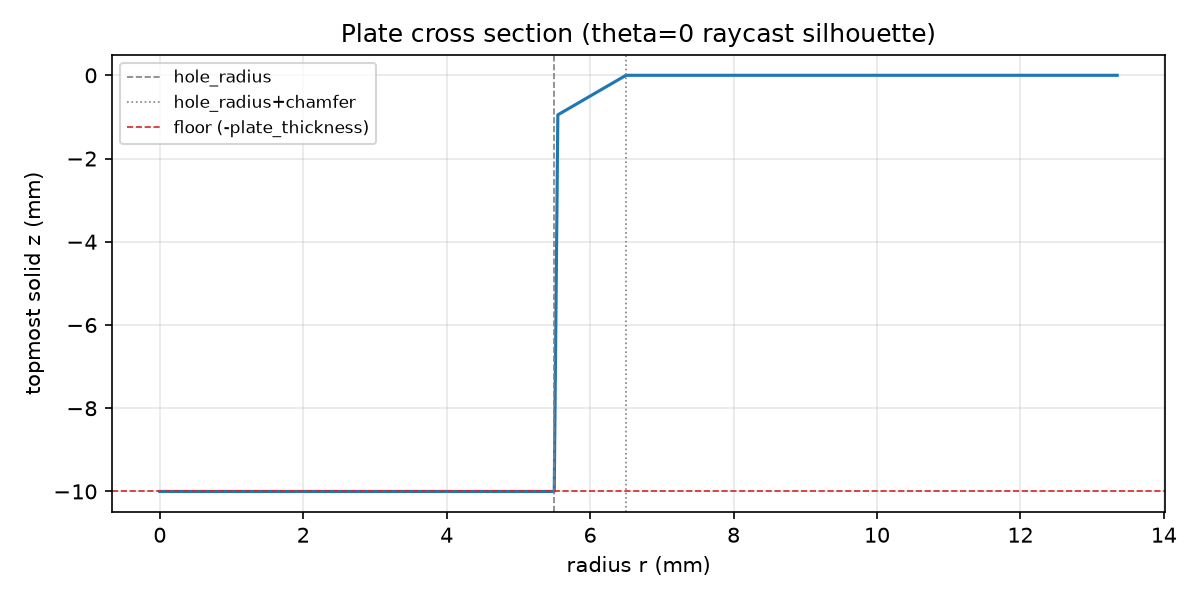
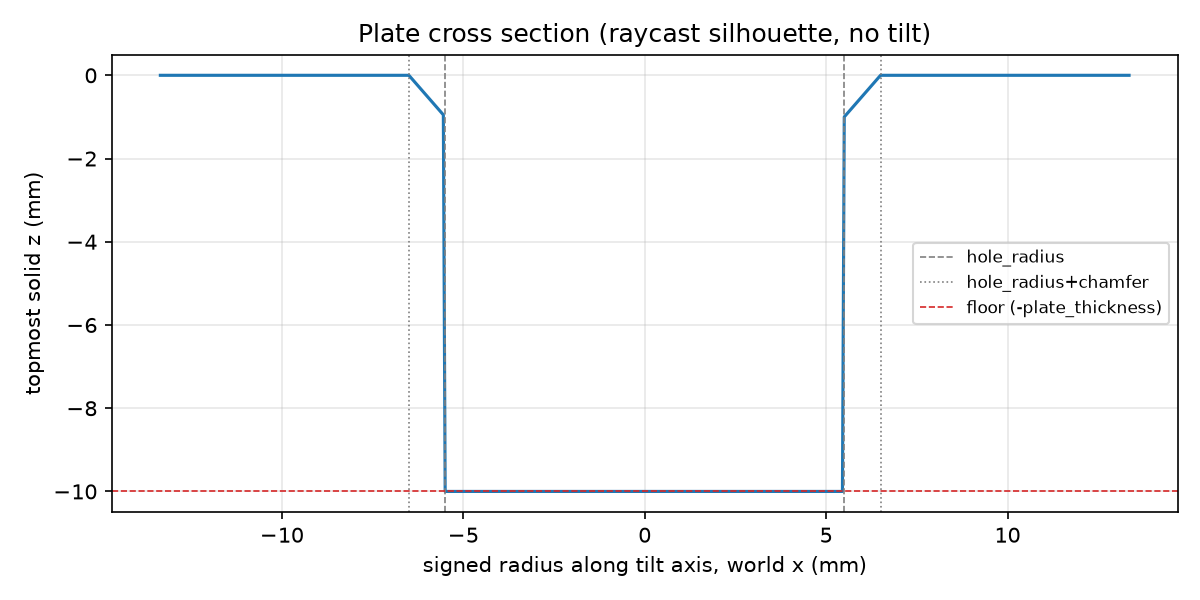
Milestone 4 Stage B prep: plate tilt capability + tilt-aware seat check
Adds plate_tilt_deg to build_mjcf (Stage B item B0c: fixture
misalignment, not a CAD parameter -- rotates the whole plate body
about world Y, about the mouth center at world origin, so the hole's
(x,y) location is unchanged but its axis is no longer vertical).
Verified against the compiled model's own geom_xmat, not derived
algebra. Permanent tests (TestPlateTilt) + committed cross-section
render (docs/scene_cross_section_tilted.png) showing the asymmetric
silhouette a 10deg tilt produces.

Caught and fixed before it could corrupt B0c's results: a tilted
hole's centerline only passes through world origin at its MOUTH
(z=0) -- at any other depth it has shifted by z*tan(tilt).
ground_truth_seated was comparing tip_lateral against world (0,0)
unconditionally, which would have wrongly penalized a peg genuinely
centered in a tilted hole. Added hole_center_xy() and threaded
hole_tilt_deg through the check; a dedicated test constructs a peg
exactly on a tilted hole's centerline and asserts it reads centered
against the correct hole_tilt_deg and NOT centered if checked against
world-origin instead (the bug being guarded against).

79/79 tests pass.

diff --git a/pegsim/rollout.py b/pegsim/rollout.py
@@ -89,6 +89,7 @@ class EpisodeConfig:
     spiral_spec: SpiralSpec | None = None  # None => straight drop, no search
     target_depth: float = None  # default set in __post_init__: task.plate_thickness - margin
     seat_persist_s: float = 0.1  # ground_truth_seated must hold continuously this long
+    plate_tilt_deg: float = 0.0  # fixture-misalignment scenario, see scene.build_mjcf
 
     def __post_init__(self) -> None:
         assert self.z_start > 0, "z_start must be above the plate (z=0)"
@@ -110,6 +111,15 @@ def axis_xy_at_z(tip_pos: np.ndarray, axis_dir: np.ndarray, z_target: float) -> 
     return tip_pos[:2] + axis_dir[:2] * s
 
 
+def hole_center_xy(z: float, hole_tilt_deg: float) -> np.ndarray:
+    """True (x, y) of the hole's own centerline at world height z, for a
+    hole tilted about world Y by hole_tilt_deg (see scene.build_mjcf's
+    plate_tilt_deg). The tilt rotates about the mouth (world origin at
+    z=0), so the mouth itself never moves -- only depth away from it does,
+    by z*tan(tilt). At hole_tilt_deg=0 this is always (0, 0)."""
+    return np.array([z * math.tan(math.radians(hole_tilt_deg)), 0.0])
+
+
 def ground_truth_seated(
     tip_pos: np.ndarray,
     axis_dir: np.ndarray,
@@ -117,12 +127,18 @@ def ground_truth_seated(
     task: TaskSpec,
     target_depth: float,
     pen_allow: float,
+    hole_tilt_deg: float = 0.0,
 ) -> bool:
-    """Sim-only success check: uses the true hole position (world origin),
-    valid here because this grades the benchmark offline -- it is never used
-    to drive control or train a policy (Rule Zero). Tilt-robust by geometric
+    """Sim-only success check: uses the true hole position, valid here
+    because this grades the benchmark offline -- it is never used to drive
+    control or train a policy (Rule Zero). Tilt-robust by geometric
     containment: checks BOTH ends of the engaged segment (the tip, and where
-    the axis crosses the plate's mouth at z=0).
+    the axis crosses the plate's mouth at z=0) against the HOLE's own
+    (possibly tilted) centerline, not blindly against world (0,0) -- a
+    tilted hole's centerline only passes through the origin at its mouth
+    (z=0); at any other depth it has shifted by z*tan(hole_tilt_deg), and
+    comparing against world (0,0) there would wrongly penalize a peg that is
+    genuinely centered in the tilted hole.
 
     clearance + pen_allow, not clearance alone: a peg resting against the
     bore wall settles AT clearance by definition (that is the wall), so
@@ -139,8 +155,9 @@ def ground_truth_seated(
     not diagonal wedging, so there is nothing to calibrate against yet.
     """
     z_tip = tip_pos[2]
-    tip_lateral = float(np.linalg.norm(tip_pos[:2]))
-    mouth_lateral = float(np.linalg.norm(axis_xy_at_z(tip_pos, axis_dir, 0.0)))
+    tip_lateral = float(np.linalg.norm(tip_pos[:2] - hole_center_xy(z_tip, hole_tilt_deg)))
+    mouth_xy = axis_xy_at_z(tip_pos, axis_dir, 0.0)
+    mouth_lateral = float(np.linalg.norm(mouth_xy - hole_center_xy(0.0, hole_tilt_deg)))
     lateral_force = float(np.linalg.norm(contact_force_world[:2]))
     axial_force = abs(float(contact_force_world[2]))
     f_wedge = math.inf  # deferred -- see module docstring and PHASE2.md
@@ -154,7 +171,7 @@ def ground_truth_seated(
 
 
 def run_episode(cfg: EpisodeConfig, pen_allow: float = 0.0) -> dict[str, object]:
-    model = mujoco.MjModel.from_xml_string(build_mjcf(cfg.task, cfg.solver))
+    model = mujoco.MjModel.from_xml_string(build_mjcf(cfg.task, cfg.solver, cfg.plate_tilt_deg))
     data = mujoco.MjData(model)
 
     x0 = cfg.initial_offset_r * math.cos(cfg.initial_offset_theta)
@@ -253,7 +270,7 @@ def run_episode(cfg: EpisodeConfig, pen_allow: float = 0.0) -> dict[str, object]
         mouth_lateral_log[i] = np.linalg.norm(axis_xy_at_z(tip, axis_dir, 0.0))
         tilt_deg_log[i] = math.degrees(math.acos(min(1.0, max(-1.0, axis_dir[2]))))
 
-        if ground_truth_seated(tip, axis_dir, force, cfg.task, cfg.target_depth, pen_allow):
+        if ground_truth_seated(tip, axis_dir, force, cfg.task, cfg.target_depth, pen_allow, cfg.plate_tilt_deg):
             consecutive_ok += 1
         else:
             consecutive_ok = 0

diff --git a/scripts/render_scene_cross_section.py b/scripts/render_scene_cross_section.py
@@ -34,32 +34,43 @@ def raycast_topmost_z(model, data, r, theta, peg_body_id, start_z=0.02):
     return None if dist < 0 else start_z - dist
 
 
-def main() -> None:
-    model = mujoco.MjModel.from_xml_string(build_mjcf(TASK, SolverSpec()))
+def _render(plate_tilt_deg: float, out_path: str, title: str) -> None:
+    model = mujoco.MjModel.from_xml_string(build_mjcf(TASK, SolverSpec(), plate_tilt_deg=plate_tilt_deg))
     data = mujoco.MjData(model)
     mujoco.mj_forward(model, data)
     peg_body_id = mujoco.mj_name2id(model, mujoco.mjtObj.mjOBJ_BODY, "peg")
 
-    r_mm = np.arange(0.0, 15.0, 0.05)
+    # Signed r along the tilt axis (world x), not |r|, so the asymmetric
+    # profile a tilted hole produces is visible instead of folded over.
+    r_mm = np.arange(-15.0, 15.0, 0.05)
     z_mm = []
     for r in r_mm:
-        z = raycast_topmost_z(model, data, r / 1000.0, 0.0, peg_body_id)
+        theta = 0.0 if r >= 0 else math.pi
+        z = raycast_topmost_z(model, data, abs(r) / 1000.0, theta, peg_body_id)
         z_mm.append(np.nan if z is None else z * 1000.0)
     z_mm = np.array(z_mm)
 
     fig, ax = plt.subplots(figsize=(8, 4))
     ax.plot(r_mm, z_mm, "-", lw=1.5, color="tab:blue")
     ax.axvline(TASK.hole_radius * 1000, color="gray", ls="--", lw=0.8, label="hole_radius")
+    ax.axvline(-TASK.hole_radius * 1000, color="gray", ls="--", lw=0.8)
     ax.axvline((TASK.hole_radius + TASK.chamfer_width) * 1000, color="gray", ls=":", lw=0.8, label="hole_radius+chamfer")
+    ax.axvline(-(TASK.hole_radius + TASK.chamfer_width) * 1000, color="gray", ls=":", lw=0.8)
     ax.axhline(-TASK.plate_thickness * 1000, color="tab:red", ls="--", lw=0.8, label="floor (-plate_thickness)")
-    ax.set_xlabel("radius r (mm)")
+    ax.set_xlabel("signed radius along tilt axis, world x (mm)")
     ax.set_ylabel("topmost solid z (mm)")
-    ax.set_title("Plate cross section (theta=0 raycast silhouette)")
+    ax.set_title(title)
     ax.legend(fontsize=8)
     ax.grid(alpha=0.3)
     fig.tight_layout()
-    fig.savefig("docs/scene_cross_section.png", dpi=150)
-    print("saved docs/scene_cross_section.png")
+    fig.savefig(out_path, dpi=150)
+    print(f"saved {out_path}")
+
+
+def main() -> None:
+    _render(0.0, "docs/scene_cross_section.png", "Plate cross section (raycast silhouette, no tilt)")
+    _render(10.0, "docs/scene_cross_section_tilted.png",
+            "Plate cross section, plate_tilt_deg=10 (Stage B item B0c fixture-misalignment scenario)")
 
 
 if __name__ == "__main__":

diff --git a/tests/test_rollout.py b/tests/test_rollout.py
@@ -4,7 +4,7 @@ import numpy as np
 import pytest
 
 from pegsim.control import ImpedanceGains
-from pegsim.rollout import EpisodeConfig, InsertionProfile, axis_xy_at_z, ground_truth_seated, run_episode
+from pegsim.rollout import EpisodeConfig, InsertionProfile, axis_xy_at_z, ground_truth_seated, hole_center_xy, run_episode
 from pegsim.scene import SolverSpec, TaskSpec
 from pegsim.search import SpiralSpec
 
@@ -60,6 +60,36 @@ class TestAxisXyAtZ:
         xy = axis_xy_at_z(tip_pos, axis_dir, 0.0)
         expected_x = 0.04 * math.tan(tilt)  # lever arm * tan(tilt)
         assert xy[0] == pytest.approx(expected_x, abs=1e-9)
+
+
+class TestHoleCenterXy:
+    def test_mouth_is_always_world_origin_regardless_of_tilt(self):
+        for tilt_deg in (0.0, 5.0, -20.0):
+            np.testing.assert_allclose(hole_center_xy(0.0, tilt_deg), [0.0, 0.0], atol=1e-12)
+
+    def test_zero_tilt_is_world_origin_at_any_depth(self):
+        np.testing.assert_allclose(hole_center_xy(-0.02, 0.0), [0.0, 0.0], atol=1e-12)
+
+    def test_tilted_hole_shifts_center_at_depth(self):
+        tilt_deg = 10.0
+        z = -0.01
+        expected_x = z * math.tan(math.radians(tilt_deg))
+        xy = hole_center_xy(z, tilt_deg)
+        assert xy[0] == pytest.approx(expected_x)
+        assert xy[1] == 0.0
+
+    def test_seated_check_uses_hole_center_not_world_origin_when_tilted(self):
+        """A peg exactly ON the tilted hole's centerline at depth must read
+        as centered, even though it is off world-origin there."""
+        tilt_deg = 10.0
+        z_tip = -0.02
+        tip_pos = np.array([hole_center_xy(z_tip, tilt_deg)[0], 0.0, z_tip])
+        axis_dir = np.array([math.sin(math.radians(tilt_deg)), 0.0, math.cos(math.radians(tilt_deg))])
+        force = np.array([0.0, 0.0, -1.0])
+        assert ground_truth_seated(tip_pos, axis_dir, force, TASK, TASK.plate_thickness - 0.001, 0.0, tilt_deg)
+        # Same physical peg, checked against world-origin (tilt=0 assumption)
+        # instead, must NOT read as centered -- this is the bug being guarded.
+        assert not ground_truth_seated(tip_pos, axis_dir, force, TASK, TASK.plate_thickness - 0.001, 0.0, 0.0)
 
 
 class TestGroundTruthSeated:

diff --git a/pegsim/scene.py b/pegsim/scene.py
@@ -289,8 +289,21 @@ def _plate_geoms_xml(task: TaskSpec) -> str:
     return "\n".join(lines)
 
 
-def build_mjcf(task: TaskSpec, solver: SolverSpec) -> str:
-    """Generate the full peg-in-hole MJCF model as an XML string."""
+def build_mjcf(task: TaskSpec, solver: SolverSpec, plate_tilt_deg: float = 0.0) -> str:
+    """Generate the full peg-in-hole MJCF model as an XML string.
+
+    plate_tilt_deg: fixture-misalignment scenario, not a CAD parameter --
+    tilts the whole plate body (and therefore the hole axis) about world Y
+    by this angle, rotating about the body origin (world (0,0,0), the
+    nominal hole mouth center), so the hole's (x,y) location is unchanged
+    but its axis is no longer vertical. Used to test angular tolerance
+    (Milestone 4 Stage B item B0c), never part of TaskSpec since a real
+    customer CAD spec has no "how misaligned is my fixture" field.
+    """
+    plate_quat = _fmt(np.array([
+        math.cos(math.radians(plate_tilt_deg) / 2.0), 0.0,
+        math.sin(math.radians(plate_tilt_deg) / 2.0), 0.0,
+    ]))
     return f"""<mujoco model="peg_in_hole">
   <option timestep="{solver.timestep:.10g}" cone="{solver.cone}" \
 integrator="{solver.integrator}" gravity="0 0 -9.81"/>
@@ -299,7 +312,7 @@ integrator="{solver.integrator}" gravity="0 0 -9.81"/>
 
   <worldbody>
     <light pos="0 0 1" dir="0 0 -1" diffuse="1 1 1"/>
-    <body name="plate" pos="0 0 0">
+    <body name="plate" pos="0 0 0" quat="{plate_quat}">
 {_plate_geoms_xml(task)}
     </body>
 

diff --git a/tests/test_scene.py b/tests/test_scene.py
@@ -248,3 +248,28 @@ class TestBlindHoleFloor:
         xml = build_mjcf(task, SOLVER)
         model = mujoco.MjModel.from_xml_string(xml)
         assert mujoco.mj_name2id(model, mujoco.mjtObj.mjOBJ_GEOM, "floor") < 0
+
+
+class TestPlateTilt:
+    """Stage B item B0c: fixture-misalignment scenario, not a CAD parameter
+    -- tilts the hole axis about world Y, rotating about the mouth center
+    (world origin) so the hole's (x,y) location is unchanged."""
+
+    @pytest.mark.parametrize("tilt_deg", [0.0, 5.0, 20.0, -15.0])
+    def test_hole_axis_tilts_about_world_y(self, tilt_deg):
+        xml = build_mjcf(TASK, SOLVER, plate_tilt_deg=tilt_deg)
+        model = mujoco.MjModel.from_xml_string(xml)
+        data = mujoco.MjData(model)
+        mujoco.mj_forward(model, data)
+        gid = mujoco.mj_name2id(model, mujoco.mjtObj.mjOBJ_GEOM, "floor")
+        world_z_axis = data.geom_xmat[gid].reshape(3, 3)[:, 2]
+        expected = np.array([math.sin(math.radians(tilt_deg)), 0.0, math.cos(math.radians(tilt_deg))])
+        np.testing.assert_allclose(world_z_axis, expected, atol=1e-9)
+
+    def test_zero_tilt_leaves_floor_at_world_origin_xy(self):
+        xml = build_mjcf(TASK, SOLVER, plate_tilt_deg=0.0)
+        model = mujoco.MjModel.from_xml_string(xml)
+        data = mujoco.MjData(model)
+        mujoco.mj_forward(model, data)
+        gid = mujoco.mj_name2id(model, mujoco.mjtObj.mjOBJ_GEOM, "floor")
+        np.testing.assert_allclose(data.geom_xpos[gid][:2], [0.0, 0.0], atol=1e-9)
